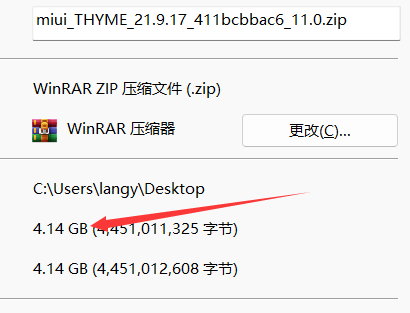
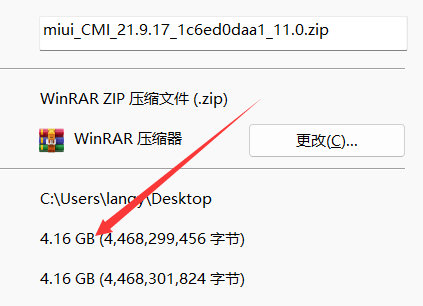
update

Changed region(s): [[0.0, 0.2647, 0.9659, 0.9706], [0.0, 0.0294, 0.9659, 0.2353], [0.5854, 0.3235, 0.6146, 0.3529]]

diff --git a/README.md b/README.md
@@ -7,10 +7,15 @@
 
 #### 一个简单的小补丁，解决TWRP不能刷超过4G ROM的问题。
 
+ * 比如最近小米10Pro、10U这种超过4G的官方包。
+ 
  * 当然没超过4G的ROM也可以用这种方法刷，只不过没必要而已！
 
-
+ * 不支持10s、小米11这种payload.bin格式的包。
+ 
 #### 更新日志：
+
+* 1.4：完善说明。
 
 * 1.3：支持usb-otg！
 
@@ -21,7 +26,7 @@
 
 ### 科普下何为超过4G：
 
- * 请用电脑查看大小，比如下图，10S的包就超过 4G了，K40没超过。
+ * 请用电脑查看大小，比如下图，10Pro的包就超过 4G了，K40没超过。
 
 ![png](./pic/01.png)
 
@@ -48,7 +53,7 @@
 
 #### 2.sdcard根目录或者otg设备根目录建立ota.txt，书写内容示例：
 ```
-/sdcard/miui_THYME_21.9.17_411bcbbac6_11.0.zip
+/sdcard/miui_CMI_21.9.17_1c6ed0daa1_11.0.zip
 /sdcard/magisk.zip
 
 ```
@@ -58,7 +63,7 @@
 
  * 若你要把ROM放在otg设备里，那么ota.txt书写内容示例：
 ```
-/usb-otg/miui_THYME_21.9.17_411bcbbac6_11.0.zip
+/usb-otg/miui_CMI_21.9.17_1c6ed0daa1_11.0.zip
 /usb-otg/magisk.zip
 
 ```
